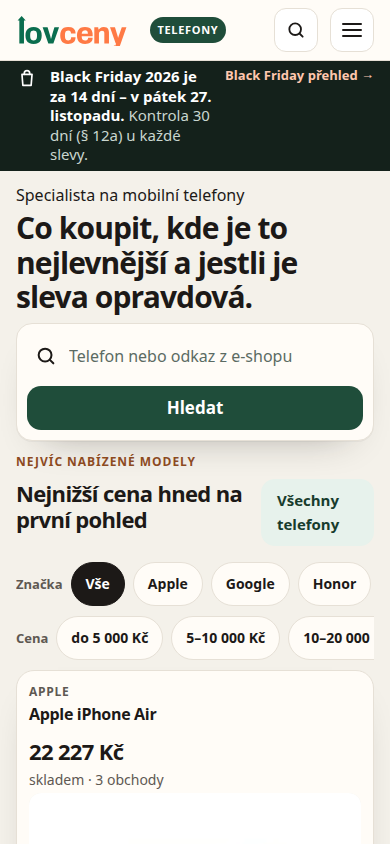
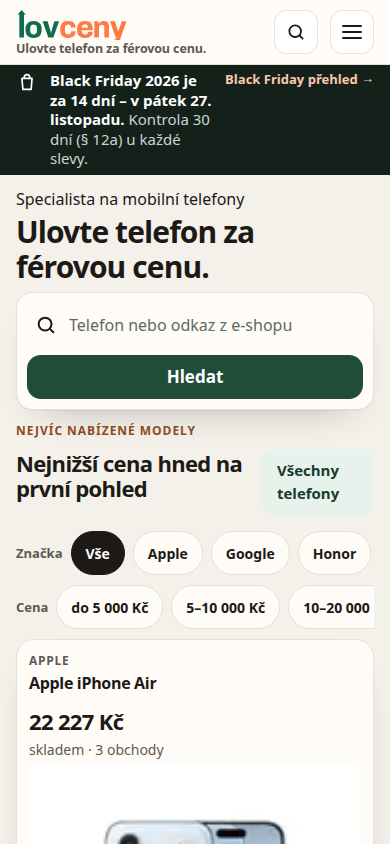
Put the chosen motto in the header, hero, and homepage metadata.
Ulovte telefon za férovou cenu. sits under the logo on small screens and beside it on desktop, and the homepage title, description, and Open Graph tags use the same line.

Changed region(s): [[0.0, 0.0, 1.0, 1.0]]

diff --git a/lovceny/templates/index.html b/lovceny/templates/index.html
@@ -1,10 +1,10 @@
 {% extends "base.html" %}{% from "_macros.html" import shop_img %}
-{% block title %}Lovceny – poctivý specialista na mobilní telefony{% endblock %}
-{% block description %}Lovceny je specialista na mobilní telefony. U každého modelu ukážeme nejnižší cenu, obchody a jestli je sleva opravdu výhodná.{% endblock %}
+{% block title %}Ulovte telefon za férovou cenu. | Lovceny{% endblock %}
+{% block description %}Ulovte telefon za férovou cenu. Nejnižší cena z českých e-shopů, historie a verdikt, jestli se sleva vyplatí.{% endblock %}
 {% block body %}
 <header class="phone-hero" id="hledat"><div class="wrap">
   <p class="phone-kicker">Specialista na mobilní telefony</p>
-  <h1>Co koupit, kde je to nejlevnější a jestli je sleva opravdová.</h1>
+  <h1>Ulovte telefon za férovou cenu.</h1>
   <p class="phone-lead">Nejnižší cena z českých e-shopů a verdikt, jestli je teď dobrá doba na nákup. Nikdo za pořadí neplatí.</p>
   <form class="search search-wide" action="/hledat" method="get" role="search" autocomplete="off">
     <label><svg width="22" height="22" viewBox="0 0 24 24" fill="none" stroke="currentColor" stroke-width="2.2" stroke-linecap="round" aria-hidden="true"><circle cx="11" cy="11" r="7"/><path d="M20 20l-3.5-3.5"/></svg>

diff --git a/lovceny/static/phones.css b/lovceny/static/phones.css
@@ -9,9 +9,15 @@
 }
 body{background:var(--bg);color:var(--ink);font-family:"Avenir Next","Segoe UI",ui-sans-serif,system-ui,sans-serif}
 .site-head{background:var(--soft);border-bottom:1px solid var(--line)}
-.logo-slogan{font-size:14px;color:var(--muted)}
-.logo-slogan .hl{color:var(--brand)}
-.logo-specialty{margin-left:10px;padding:4px 8px;border-radius:999px;background:var(--brand);color:#fff;font-size:11px;font-weight:700;letter-spacing:.06em;text-transform:uppercase}
+.logo-lockup{display:flex;flex-direction:column;align-items:flex-start;min-width:0;gap:1px}
+.logo-slogan{margin:0;padding:0;border:0;font-size:12.5px;font-weight:650;line-height:1.2;color:var(--muted);letter-spacing:-.01em;white-space:nowrap}
+@media (min-width:901px){
+  .logo-lockup{flex-direction:row;align-items:center}
+  .logo-slogan{margin-left:12px;padding-left:12px;border-left:1px solid var(--line);font-size:14px}
+}
+@media (max-width:900px){
+  .logo-slogan{display:block}
+}
 .btn-primary{background:var(--brand);box-shadow:none}
 .btn-primary:hover{background:var(--brand-600)}
 .kicker,.eyebrow{margin:0;font-size:12px;font-weight:700;letter-spacing:.08em;text-transform:uppercase;color:var(--accent)}

diff --git a/lovceny/templates/base.html b/lovceny/templates/base.html
@@ -24,9 +24,10 @@
 <a class="skip" href="#obsah">Přeskočit na obsah</a>
 <header class="site-head"><div class="wrap">
   <nav aria-label="Hlavní navigace" class="site-nav">
-    <a class="logo" href="/" aria-label="Lovceny – telefony"><img class="logo-img" src="{{ static('brand/logo.svg') }}" alt="" width="126" height="36"></a>
-    <span class="logo-specialty">Telefony</span>
-    <p class="logo-slogan">Hlídáme ceny. <span class="hl">Řekneme na rovinu.</span></p>
+    <div class="logo-lockup">
+      <a class="logo" href="/" aria-label="Lovceny – telefony"><img class="logo-img" src="{{ static('brand/logo.svg') }}" alt="" width="126" height="36"></a>
+      <p class="logo-slogan">Ulovte telefon za férovou cenu.</p>
+    </div>
     <button type="button" class="nav-find" id="nav-find" aria-label="Hledat">
       <svg width="20" height="20" viewBox="0 0 24 24" fill="none" stroke="currentColor" stroke-width="2.2" stroke-linecap="round" aria-hidden="true"><circle cx="11" cy="11" r="7"/><path d="M20 20l-3.5-3.5"/></svg>
     </button>

diff --git a/tests/test_redesign.py b/tests/test_redesign.py
@@ -127,7 +127,11 @@ def test_priced_cards_and_thin_history_helpers():
 def test_home_hero_clarity():
     init_db()
     html = TestClient(app).get("/").text
-    assert "Hlídáme ceny" in html
+    assert "Ulovte telefon za férovou cenu." in html
+    assert "<title>Ulovte telefon za férovou cenu. | Lovceny</title>" in html
+    assert 'property="og:title" content="Ulovte telefon za férovou cenu. | Lovceny"' in html
+    assert 'name="description" content="Ulovte telefon za férovou cenu.' in html
+    assert 'property="og:description" content="Ulovte telefon za férovou cenu.' in html
     assert "Jak to funguje" not in html
     assert "Nejvíc nabízené modely" in html
     assert "Nejnižší cena z českých e-shopů" in html

diff --git a/tests/test_polish.py b/tests/test_polish.py
@@ -8,7 +8,7 @@ def test_homepage_uses_line_icons_and_places_labels(client_db):
     assert "🛍" not in html and "⚖" not in html and "📲" not in html
     assert 'class="ico"' in html
     title = html.split('class="logo-slogan"', 1)[1].split("</p>", 1)[0]
-    assert "Hlídáme ceny." in title and "Řekneme na rovinu." in title
+    assert "Ulovte telefon za férovou cenu." in title
     assert "<i>Nově</i>" not in html
     assert "Specialista na mobilní telefony" in html
     assert "Nejvíc nabízené modely" in html
